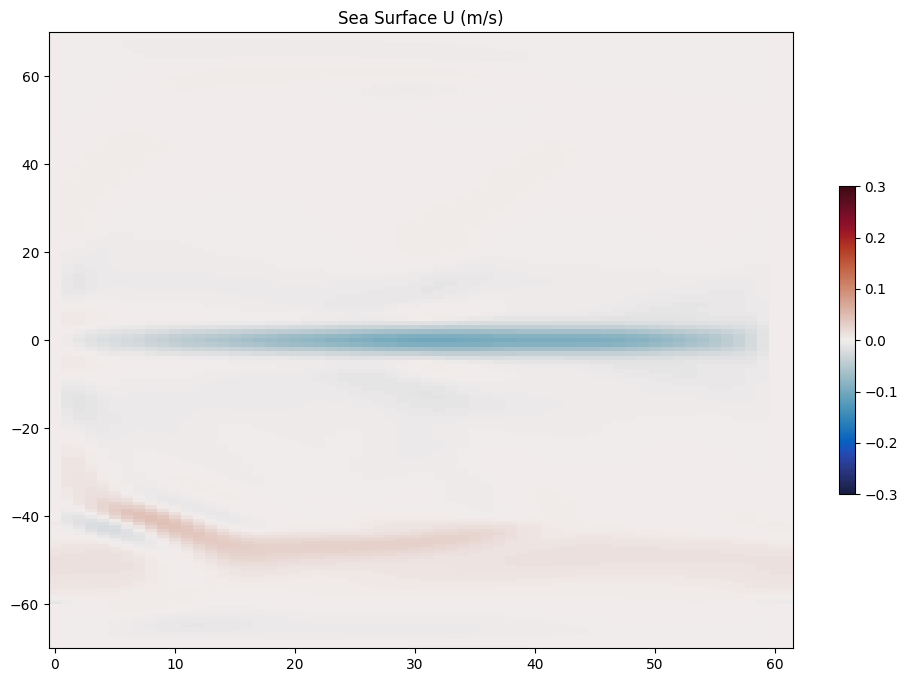
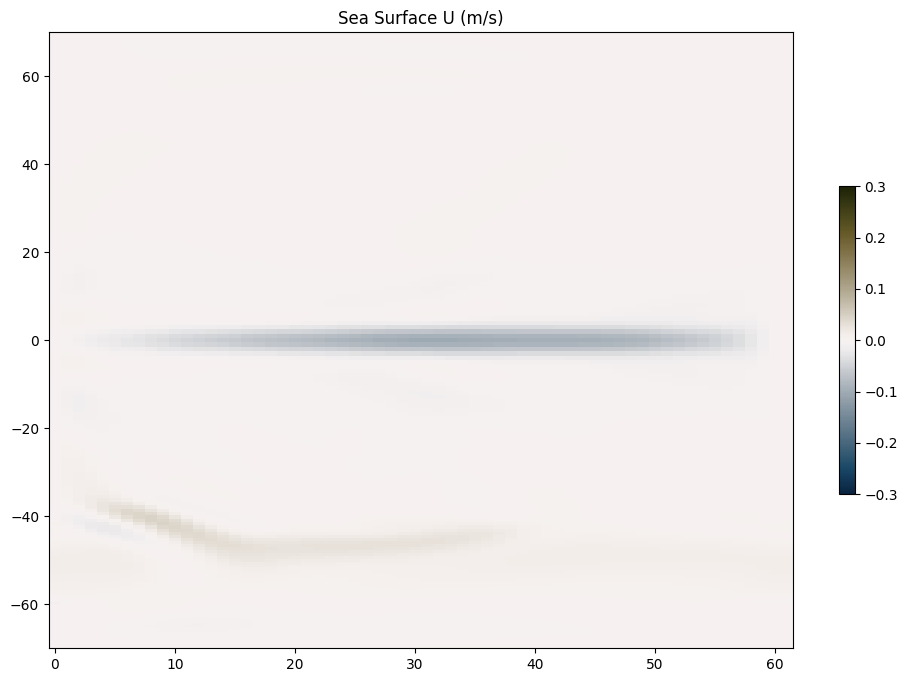
upgrade color map

Changed region(s): [[0.185, 0.4619, 0.8018, 0.5235], [0.9251, 0.5235, 0.9559, 0.7082], [0.9251, 0.2771, 0.9559, 0.4311]]

diff --git a/DINO.GZ21/POST-PROCESS/plots_res.py b/DINO.GZ21/POST-PROCESS/plots_res.py
@@ -60,15 +60,15 @@ if __name__=="__main__":
     # snapshots
     # ---------
     # kinetic energy
-    infos = [ 'KE (cm2/s2)' , cmocean.cm.amp , colors.LogNorm(vmin=1.0e-3, vmax=1.0e5), lambda x: x*1000 ]
+    infos = [ 'KE (m2/s2)' , cmocean.cm.haline , colors.Normalize(vmin=0.0, vmax=0.03), lambda x: x ]
     main( filepath='NEVERWORLD.1d_gridTsurf.nc' , var_name='sKE' , infos=infos , freq='1d' )
 
     # usurf
-    infos = [ 'Sea Surface U (m/s)' , cmocean.cm.balance , colors.Normalize(vmin=-0.3, vmax=0.3), lambda x: x ]
+    infos = [ 'Sea Surface U (m/s)' , cmocean.cm.diff , colors.Normalize(vmin=-0.3, vmax=0.3), lambda x: x ]
     main( filepath='NEVERWORLD.1d_gridUsurf.nc' , var_name='sozocrtx' , infos=infos , freq='1d' )
 
     # vsurf
-    infos = [ 'Sea Surface V (m/s)' , cmocean.cm.balance , colors.Normalize(vmin=-0.3, vmax=0.3), lambda x: x ]
+    infos = [ 'Sea Surface V (m/s)' , cmocean.cm.diff , colors.Normalize(vmin=-0.3, vmax=0.3), lambda x: x ]
     main( filepath='NEVERWORLD.1d_gridVsurf.nc' , var_name='somecrty' , infos=infos , freq='1d' )
 
     # uf
@@ -81,15 +81,15 @@ if __name__=="__main__":
 
     # yearly mean
     # kinetic energy
-    infos = [ 'KE (cm2/s2)' , cmocean.cm.amp , colors.LogNorm(vmin=1.0e-3, vmax=1.0e5), lambda x: x*1000 ]
-    main( filepath='NEVERWORLD.1d_gridT.nc' , var_name='ke' , infos=infos , freq='1y' )
+    infos = [ 'KE (m2/s2)' , cmocean.cm.haline , colors.Normalize(vmin=0.0, vmax=0.05), lambda x: x ]
+    main( filepath='NEVERWORLD.1y_gridT.nc' , var_name='ke' , infos=infos , freq='1y' )
 
     # usurf
-    infos = [ 'Sea Surface U (m/s)' , cmocean.cm.balance , colors.Normalize(vmin=-0.3, vmax=0.3), lambda x: x ]
-    main( filepath='NEVERWORLD.1d_gridU.nc' , var_name='uoce' , infos=infos , freq='1y' )
+    infos = [ 'Sea Surface U (m/s)' , cmocean.cm.diff , colors.Normalize(vmin=-0.3, vmax=0.3), lambda x: x ]
+    main( filepath='NEVERWORLD.1y_gridU.nc' , var_name='uoce' , infos=infos , freq='1y' )
 
     # vsurf
-    infos = [ 'Sea Surface V (m/s)' , cmocean.cm.balance , colors.Normalize(vmin=-0.3, vmax=0.3), lambda x: x ]
+    infos = [ 'Sea Surface V (m/s)' , cmocean.cm.diff , colors.Normalize(vmin=-0.3, vmax=0.3), lambda x: x ]
     main( filepath='NEVERWORLD.1y_gridV.nc' , var_name='voce' , infos=infos , freq='1y' )
 
     # uf
